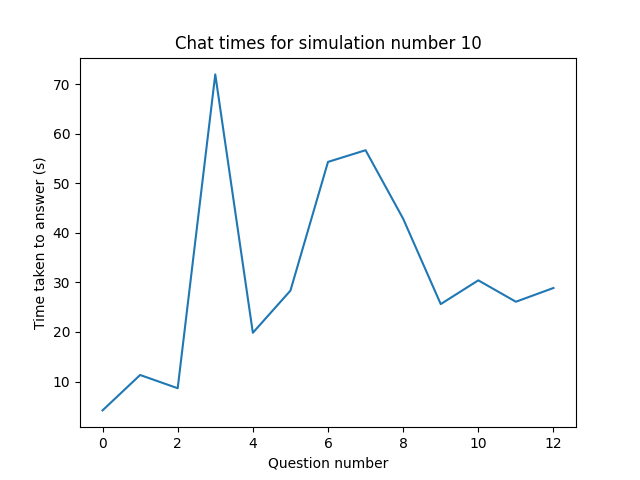
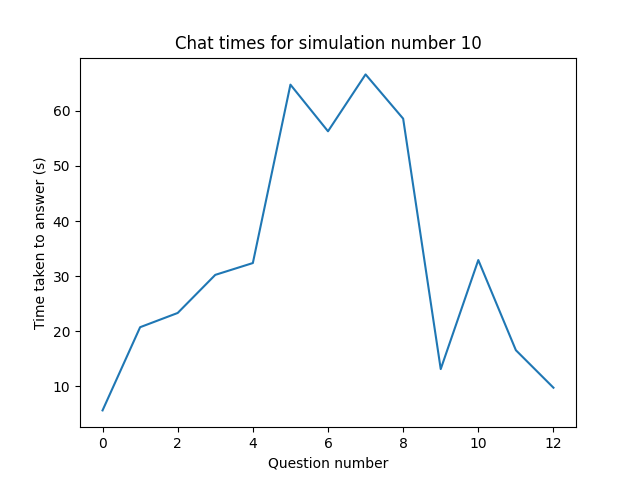
tested new vector store index

diff --git a/swLlamaBot.py b/swLlamaBot.py
@@ -127,6 +127,7 @@ class swLlamaBot:
     
     def createVecStore(self, dataPath, vecStorePath="FAISSvectorstore", batch_size=1000):
         loader = UnstructuredLoader(dataPath)
+        print("Loading data...")
         documents = loader.load()
         print("Data loaded")
         text_splitter = RecursiveCharacterTextSplitter(chunk_size=1000, chunk_overlap=20)
@@ -136,11 +137,18 @@ class swLlamaBot:
         initial_batch = all_splits[:batch_size]
         initial_batch_texts = [doc.page_content for doc in initial_batch]
         initial_batch_embeddings = self.embeddings.embed_documents(initial_batch_texts)
-        # Initialize FAISS index (e.g., IVFFlat)
+        # Create IVFPQ index
         d = len(initial_batch_embeddings[0])  # Dimension of embeddings
         nlist = 100  # Number of clusters (adjust as needed)
+        m = 8  # Number of subquantizers (adjust as needed)
+        nbits = 8  # Number of bits per code in each subquantizer (usually 8)
         quantizer = faiss.IndexFlatL2(d)  # Flat index used for clustering
-        index = faiss.IndexIVFFlat(quantizer, d, nlist, faiss.METRIC_L2)
+        index = faiss.IndexIVFPQ(quantizer, d, nlist, m, nbits)
+        # Initialize FAISS index (e.g., IVFFlat)
+        # d = len(initial_batch_embeddings[0])  # Dimension of embeddings
+        # nlist = 100  # Number of clusters (adjust as needed)
+        # quantizer = faiss.IndexFlatL2(d)  # Flat index used for clustering
+        # index = faiss.IndexIVFFlat(quantizer, d, nlist, faiss.METRIC_L2)
         # Train the index with initial batch embeddings
         index.train(np.array(initial_batch_embeddings))
         print("FAISS index trained")

diff --git a/createNewVecstore.py b/createNewVecstore.py
@@ -1,0 +1,26 @@
+from swLlamaBot import swLlamaBot
+import time
+bot = swLlamaBot(loadVecStore=False, vecStorePath="FAISSvectorstoreIVFPQ_6")
+# bot = swLlamaBot(loadVecStore=True, vecStorePath="FAISSvectorstore") # original bot
+# Test the bot with the new vector store by chatting with it
+startTime = time.time()
+bot.chat("Who is Darth Vader?")
+print(f"Time taken to answer: {time.time() - startTime} seconds")
+startTime = time.time()
+bot.chat("How did he turn to the dark side?")
+print(f"Time taken to answer: {time.time() - startTime} seconds")
+startTime = time.time()
+bot.chat("Who is Luke Skywalker?")
+print(f"Time taken to answer: {time.time() - startTime} seconds")
+startTime = time.time()
+bot.chat("How did he come to be a Jedi?")
+print(f"Time taken to answer: {time.time() - startTime} seconds")
+startTime = time.time()
+bot.chat("I thought Luke was a Sith Lord?")
+print(f"Time taken to answer: {time.time() - startTime} seconds")
+startTime = time.time()
+bot.chat("So how did he defeat Darth Vader?")
+print(f"Time taken to answer: {time.time() - startTime} seconds")
+startTime = time.time()
+bot.chat("What is the Force?")
+print(f"Time taken to answer: {time.time() - startTime} seconds")

diff --git a/testSWLlamaBot.py b/testSWLlamaBot.py
@@ -21,8 +21,8 @@ def chatAndTime(bot, question, chatTimes):
 
 def main():
     allChatTimesDF = pd.DataFrame()
-    bot = swLlamaBot(vecStorePath="FAISSvectorstore", loadVecStore=True)
-    # bot = swLlamaBot(vecStorePath="FAISSvectorStoreIVFFlat", loadVecStore=True) # DO NOT USE IVFFLAT WE DONT HAVE THE RAM FOR IT
+    # bot = swLlamaBot(vecStorePath="FAISSvectorstore", loadVecStore=True)
+    bot = swLlamaBot(vecStorePath="FAISSvectorStoreIVFPQ", loadVecStore=True) # DO NOT USE IVFFLAT WE DONT HAVE THE RAM FOR IT
     for i in range(10):
         chatTimes = []
         chatAndTime(bot, "Who is Darth Vader?", chatTimes)

diff --git a/faissInfo.py b/faissInfo.py
@@ -1,9 +1,11 @@
 import faiss
 
 # Load the index from a file
-index = faiss.read_index("FAISSvectorstore/index.faiss")
+index = faiss.read_index("FAISSvectorstoreIVFPQ/index.faiss")
 
 # Print the index type
-print(f"FAISS Index Type: {type(index).__name__}") # IndexFlatL2
+print(f"FAISS Index Type: {type(index).__name__}") # IndexIVFPQ, IndexFlatL2
 num_vectors = index.ntotal
-print(f"Number of vectors in the FAISS index: {num_vectors}") # 952470
+print(f"Number of vectors in the FAISS index: {num_vectors}") # 8108450, 952470
+# Check nprobe value
+print(f"nprobe value: {index.nprobe}") # 1, <didn't run>
